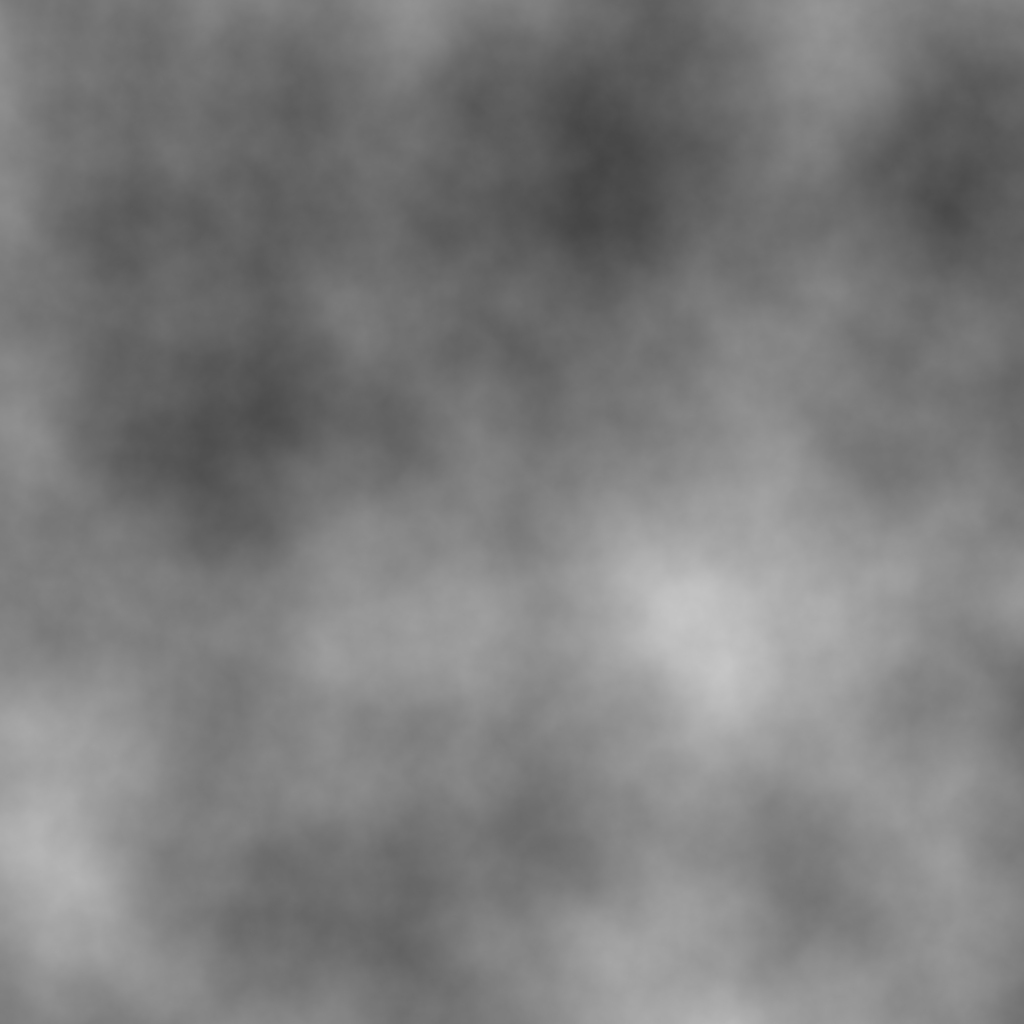
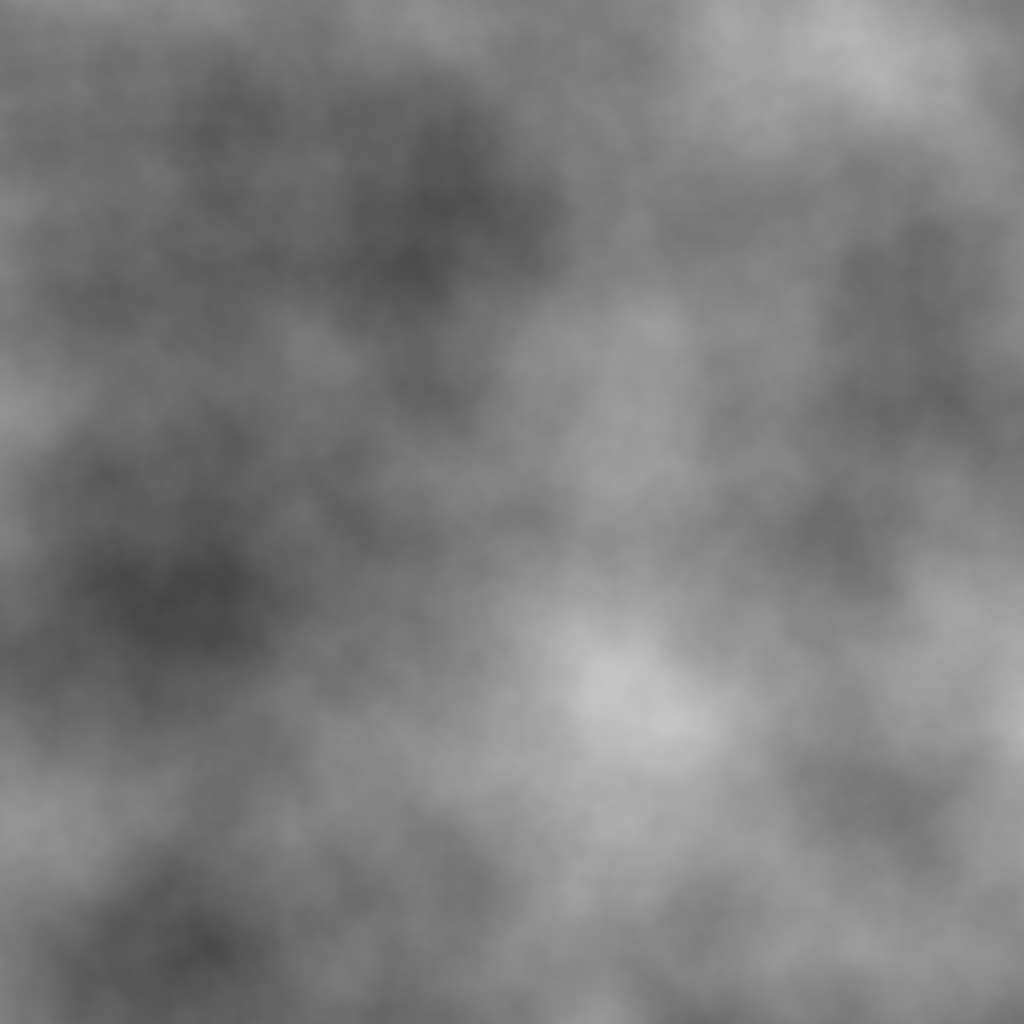
Added directional lighting & slope-altitude based colouring
Super long debugging process, for it to be a typo....
it works now tho

diff --git a/Terrain Generation/Source/main.cpp b/Terrain Generation/Source/main.cpp
@@ -14,6 +14,7 @@
 #include <shader.h>
 #include <iostream>
 #include "perlin.h"
+#include <fstream>
 
 
 void framebuffer_size_callback(GLFWwindow* window, int width, int height);
@@ -43,7 +44,7 @@ bool firstMouse{ true };
 bool toggleWireframe{ false };
 
 //camera setup
-Camera camera(glm::vec3(0.0f, 0.0f, 3.0f), glm::vec3(0.0f, 1.0f, 0.0f), glm::vec3(0.0f, 0.0f, -1.0f), yaw, pitch);
+Camera camera(glm::vec3(0.0f, 100.0f, 100.0f), glm::vec3(0.0f, 1.0f, 0.0f), glm::vec3(0.0f, 0.0f, -1.0f), yaw, pitch);
 
 PerlinGen perlin(1000);
 
@@ -87,11 +88,11 @@ int main()
 
 
 	Shader objectShader(
-		"Shaders/object.vert",
-		"Shaders//object.frag");
+		"C:\\Users\\tanis\\source\\repos\\Terrain Generation\\Terrain Generation\\Shaders\\object.vert",
+		"C:\\Users\\tanis\\source\\repos\\Terrain Generation\\Terrain Generation\\Shaders\\object.frag");
 	Shader screenShader(
-		"Shaders/post_process.vert",
-		"Shaders/post_process.frag");
+		"C:\\Users\\tanis\\source\\repos\\Terrain Generation\\Terrain Generation\\Shaders\\post_process.vert",
+		"C:\\Users\\tanis\\source\\repos\\Terrain Generation\\Terrain Generation\\Shaders\\post_process.frag");
 
 
 	//GL_STATES
@@ -126,14 +127,14 @@ int main()
 			vertices.push_back(-width / 2.0f + j);
 		}
 	}*/
-	int mapSize_x = 1024, mapSize_y = 1024; //only squares, rectangles cause strips
-	double persistence = 0.5, scale = 0.002; //keep scale v small
+	int mapSize_x = 1024, mapSize_z = 1024; //only squares, rectangles cause strips
+	double persistence = 0.5, scale = 0.004; //keep scale v small
 	int octaves = 16;
-	std::vector<float> data(mapSize_x * mapSize_y, 0);
-	std::vector<unsigned char> image(mapSize_x * mapSize_y);
+	std::vector<float> data(mapSize_x * mapSize_z, 0);
+	std::vector<unsigned char> image(mapSize_x * mapSize_z);
 
 	for (int i = 0; i < mapSize_x; i++) {
-		for (int j = 0; j < mapSize_y; j++) {
+		for (int j = 0; j < mapSize_z; j++) {
 
 			double x = i * scale;
 			double y = j * scale;
@@ -142,55 +143,58 @@ int main()
 			//double n = perlin.octavePerlin(x * scale, y * scale, octaves, persistence);
 
 			//float nx = (i - mapSize_x / 2.0f) / (mapSize_x / 2.0f);  // -1 → 1
-			//float ny = (j - mapSize_y / 2.0f) / (mapSize_y / 2.0f);  // -1 → 1
+			//float ny = (j - mapSize_z / 2.0f) / (mapSize_z / 2.0f);  // -1 → 1
 			//float dist = sqrt(nx * nx + ny * ny);   
 			//
 			//float falloff = pow(dist, 3.0f);  // try exponents 2–4
 			//float height = n - falloff;
-			//data[i * mapSize_y + j] = std::max(0.0f, std::min(1.0f, height));
+			//data[i * mapSize_z + j] = std::max(0.0f, std::min(1.0f, height));
 
-			data[i * mapSize_y + j] = perlin.octavePerlin(x, y, octaves, persistence); //output is between 0,1
-			image[j * mapSize_x + i] = static_cast<unsigned char>(data[i * mapSize_y + j] * 255.0f);
+			data[i * mapSize_z + j] = perlin.octavePerlin(x, y, octaves, persistence); //output is between 0,1
+			image[i * mapSize_z + j] = static_cast<unsigned char>(data[i * mapSize_z + j] * 255.0f);
 		}
 	}
 
 	//write to png
-
-	std::string size = std::to_string(mapSize_x) + 'x' + std::to_string(mapSize_y);
+	std::string size = std::to_string(mapSize_x) + 'x' + std::to_string(mapSize_z);
 	std::string p = std::to_string(persistence);
 	std::string s = std::to_string(scale);
 	std::string name = "Media/Generated/perlin_" + size + "_p" + p + "_s" + s + '_' + ".png";
-	stbi_write_png(name.c_str(), mapSize_x, mapSize_y, 1, image.data(), mapSize_x);
+	stbi_write_png(name.c_str(), mapSize_x, mapSize_z, 1, image.data(), mapSize_x);
+
+	//TODO: if the file is already generated, just look up the texture and load
 
 	std::vector<float> vertices;
-	float yScale = 512.0f, yShift = 256.0f; //range from -256 to 256
-	float seaLevel = -50.0f;
+	std::ofstream out("normal.txt");
+
+	float yScale = 256.0f, yShift = 128.0f; //range from -256 to 256
+	float seaLevel = -25.0f;
 
 	for (int i = 0; i < mapSize_x; i++) {
-		for (int j = 0; j < mapSize_y; j++) {
+		for (int j = 0; j < mapSize_z; j++) {
 
-			double y = data[i * mapSize_y + j];
+			double y = data[i * mapSize_z + j];
 			float height = y * yScale - yShift;
 			if (height < seaLevel) height = seaLevel;
 
 			vertices.push_back(-mapSize_x / 2.0f + i);
 			vertices.push_back(height);
-			vertices.push_back(-mapSize_y / 2.0f + j);
+			vertices.push_back(-mapSize_z / 2.0f + j);
 
 			//calculate normals
 			float hL, hR, hU, hD;
-			hL = hR = hD = hU = y;
+			hL = hR = hD = hU = height;
 
 			if (i != 0)
-				hL = data[(i - 1) * mapSize_y + j] * yScale - yShift; // left
+				hL = data[(i - 1) * mapSize_z + j] * yScale - yShift; // left
 			if (i != mapSize_x - 1)
-				hR = data[(i + 1) * mapSize_y + j] * yScale - yShift; // right
+				hR = data[(i + 1) * mapSize_z + j] * yScale - yShift; // right
 			if (j != 0)
-				hD = data[i * mapSize_y + j - 1] * yScale - yShift; // down
-			if (j != mapSize_y - 1)
-				hU = data[i * mapSize_y + j + 1] * yScale - yShift; // up
+				hD = data[i * mapSize_z + j - 1] * yScale - yShift; // down
+			if (j != mapSize_z - 1)
+				hU = data[i * mapSize_z + j + 1] * yScale - yShift; // up
 
-			glm::vec3 normal = glm::normalize(glm::vec3(hL - hR, 2.0f, hD - hU));
+			glm::vec3 normal = glm::normalize(glm::vec3((hL - hR) / 2.0f, 1.0f, (hD - hU) / 2.0f));
 			vertices.push_back(normal.x);
 			vertices.push_back(normal.y);
 			vertices.push_back(normal.z);
@@ -201,19 +205,17 @@ int main()
 
 	//stbi_image_free(data);
 	std::vector<unsigned int> indices;
-	for (int i = 0; i < mapSize_y - 1; i++) {
+	for (int i = 0; i < mapSize_z - 1; i++) {
 		for (int j = 0; j < mapSize_x; j++) {
-			for (int k = 0; k < 2; k++) {
-
-				indices.push_back(j + mapSize_x * (i + k));
-			}
+				indices.push_back(i * mapSize_z + j);
+				indices.push_back(j + mapSize_z * (i + 1));
 		}
 	}
 
 	std::cout << "Loaded " << indices.size() << " indices" << std::endl;
 
 	const unsigned int NUM_STRIPS = mapSize_x - 1;
-	const unsigned int NUM_VERT_PER_STRIP = mapSize_y * 2;
+	const unsigned int NUM_VERT_PER_STRIP = mapSize_z * 2;
 
 	// register VAO
 	GLuint terrainVAO, terrainVBO, terrainEBO;
@@ -241,6 +243,15 @@ int main()
 		&indices[0],                           // pointer to first element
 		GL_STATIC_DRAW);
 
+	//setting constant uniforms
+	objectShader.use();
+	glm::vec3 sun_color = glm::vec3(0.98, 0.85, 0.65);
+	glm::vec3 sun_dir = glm::vec3(-0.2, -1.0f, -0.3f);
+	objectShader.setVec3("dir.specular", 1.0f * sun_color);
+	objectShader.setVec3("dir.diffuse", 0.6f * sun_color);
+	objectShader.setVec3("dir.ambient", 0.3f * sun_color);
+	objectShader.setVec3("dir.direction", sun_dir);
+
 	//render loop
 	while (!glfwWindowShouldClose(window))
 	{
@@ -255,7 +266,7 @@ int main()
 		glBindFramebuffer(GL_FRAMEBUFFER, fbo);
 		objectShader.use();
 
-		glm::vec3 bgCol = glm::vec3(1.0);
+		glm::vec3 bgCol = glm::vec3(1.0f);
 		glClearColor(bgCol.x, bgCol.y, bgCol.z, 1.0);
 		glEnable(GL_DEPTH_TEST);
 		glClear(GL_COLOR_BUFFER_BIT | GL_DEPTH_BUFFER_BIT);
@@ -263,7 +274,7 @@ int main()
 		objectShader.use();
 
 		// view/projection transformations
-		glm::mat4 projection = glm::perspective(glm::radians(camera.zoom), (float)screenWidth / (float)screenHeight, 0.1f, 100000.0f);
+		glm::mat4 projection = glm::perspective(glm::radians(camera.zoom), (float)screenWidth / (float)screenHeight, 0.1f, 10000.0f);
 		glm::mat4 view = camera.getViewMatrix();
 		objectShader.setMat4("projection", projection);
 		objectShader.setMat4("view", view);
@@ -273,6 +284,9 @@ int main()
 		// world transformation
 		glm::mat4 model = glm::mat4(1.0f);
 		objectShader.setMat4("model", model);
+
+		//camera pos uniform
+		objectShader.setVec3("viewPos", camera.Position);
 
 		//draw calls
 		glBindVertexArray(terrainVAO);
@@ -291,7 +305,6 @@ int main()
 		glBindVertexArray(screenVAO);
 		glDisable(GL_DEPTH_TEST);
 		glBindTexture(GL_TEXTURE_2D, fb_color_buffer);
-		//glPolygonMode(GL_FRONT_AND_BACK, GL_LINE);
 		glDrawArrays(GL_TRIANGLES, 0, 6);
 
 		//swap buffers [front and back] and polls IO events
